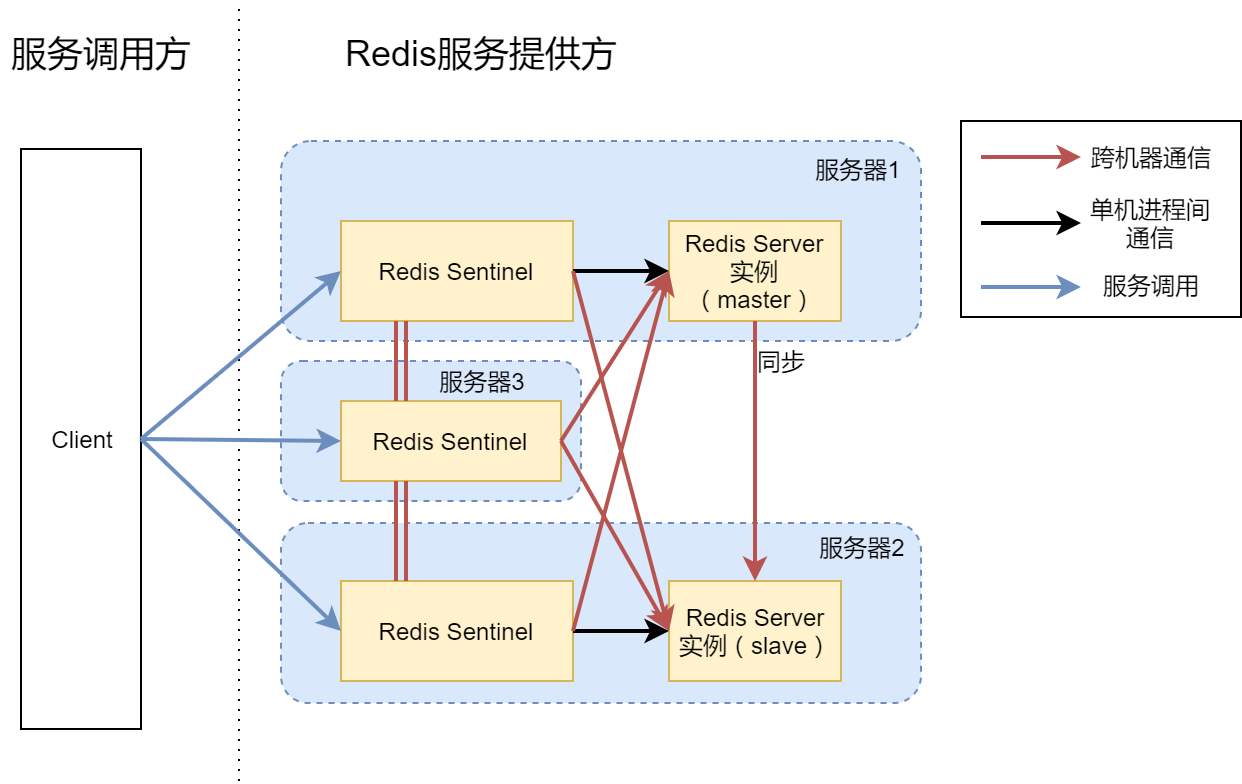
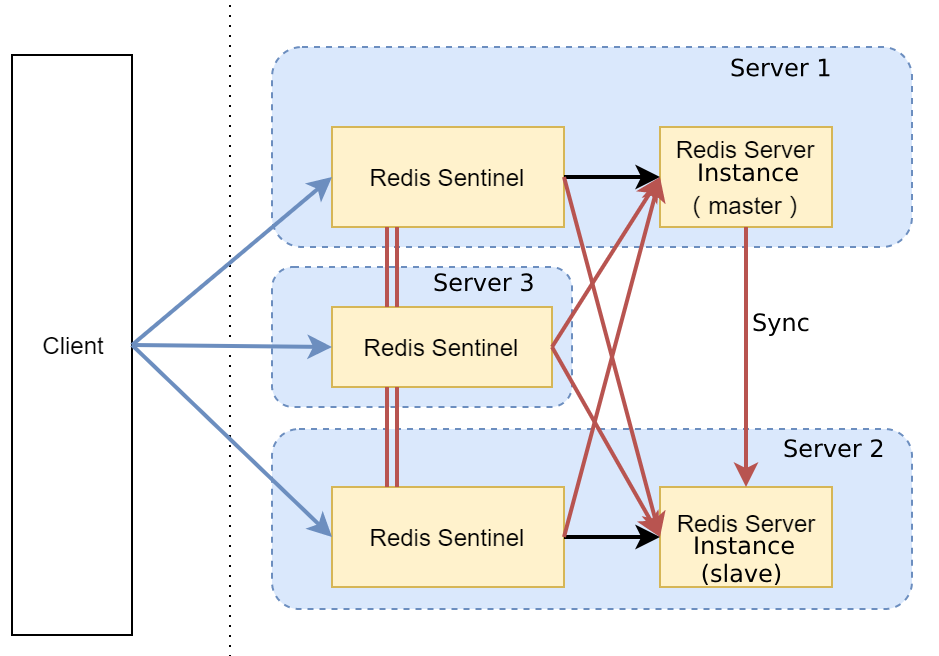
using english README

diff --git a/README.md b/README.md
@@ -1,56 +1,80 @@
----
-typora-root-url: .
-typora-copy-images-to: ./images
----
+# Problems
 
-# 问题
+Redis Sentinel is a high-availability master-slave solution given by Redis. Using it, we can deploy a fault-tolerant, highly available Redis cluster. The failover process is automated and requires no human intervention. For more information about Redis Sentinel refer to: <https:// Redis.io/topics/sentinel>.
 
-Redis哨兵是Redis官方给出的高可用主从方案，使用该方案可以部署一个容错的高可用Redis集群，故障转移过程是自动化地进行的，而不需要人为干涉。
-
-> Redis Sentinel provides high availability (HA) for Redis. In practical terms this means that using Sentinel you can create a Redis deployment that tolerates certain kinds of failures without human intervention. For more information about Redis Sentinel refer to: <https://redis.io/topics/sentinel>.
-
-典型的哨兵架构图如下所示：
+A typical sentinel architecture diagram is shown below:
 
 ![image-20190419165707181](images/image-20190419165707181.png)
 
-它由两部分组成，哨兵节点和数据节点：
+It consists of three parts, the sentinel node, the data node and the client node:
 
-- 哨兵节点：哨兵系统由一个或多个哨兵节点组成，哨兵节点是特殊的 Redis 节点，不存储数据。
-- 数据节点：主节点和从节点都是数据节点。
-- 客户端节点：Redis客户端通过sentinel协议感知到当前的主从节点信息，再连接后端的数据节点存取数据。
+- Sentinel node: The sentinel system consists of one or more sentinel nodes, which are special Redis nodes that do not store data.
+- Data node: Both the master node and the slave node are data nodes.
+- Client node: The Redis client fetchs the current master-slave node information through the sentinel protocol, and then connects the data nodes of the back-end to access the data.
 
-上面的架构我们能看到一个问题，这个方案对于客户端是不透明的，需要客户端支持sentinel协议以感知主从节点信息。这个对于有些场景来说意味着要修改客户端的Redis的驱动程序，因此整个方案在实施时有一些困难。
+In the architecture above we can see a problem, this solution is opaque to the client, the client needs to support the sentinel protocol to sense the master-slave information. 
 
-> Connecting an application to a Sentinel-managed Redis deployment is usually done with a Sentinel-aware Redis client. While most Redis clients do support Sentinel, the application needs to call a specialized connection management interface of the client to use it. When one wishes to migrate to a Sentinel-enabled Redis deployment, she/he must modify the application to use Sentinel-based connection management. Moreover, when the application uses a Redis client that does not provide support for Sentinel, the migration becomes that much more complex because it also requires replacing the entire client library.
+Connecting an application to a Sentinel-managed Redis deployment is usually done with a Sentinel-aware Redis client. While most Redis clients do support Sentinel, the application needs to call a specialized connection management interface of the client to use it. When one wishes To migrate to a Sentinel-enabled Redis deployment, she/he must modify the application to use Sentinel-based connection management. Moreover, when the application uses a Redis client that does not provide support for Sentinel, the migration becomes that much more complex It also requires replacing the entire client library.
 
-# 解决方案
+Some of the existing redis deployment solutions in the kubernetes community, such as [redis-ha] (<https://github.com/helm/charts/tree/master/stable/redis-ha>), are basically similar to the above architecture, so the same problem exists.
 
-现在社区中的一些helm chart（如[redis-ha](https://github.com/helm/charts/tree/master/stable/redis-ha)）部署的redis集群就是上面那种方案，因此存在的问题是类似的。
+# Solutions
 
-为了解决上述问题，我们这里采用Redis官方给的[sentinel_tunnel](https://github.com/RedisLabs/sentinel_tunnel)作为Redis SmartProxy，以屏蔽下层的Redis集群状态细节，让客户端以普通Redis协议直接连接过来，架构图如下：
-
-```
-+-------------------------------------------+                                                           _,-'*'-,_
-| +---------------------------------------+ |                                               _,-._      (_ o v # _)
-| |                           +--------+  | |  +----------+       +----------+          _,-'  *  `-._  (_'-,_,-'_)
-| |Application code           | Redis  |  | |  | Sentinel | +     |  Redis   | +       (_  O     #  _) (_'|,_,|'_)
-| |(uses regular connections) | client +<------>+  Tunnel  +<----->+ Sentinel +<--+---->(_`-._ ^ _,-'_)   '-,_,-'
-| |                           +--------+  | |  +----------+ | |   +----------+ | |     (_`|._`|'_,|'_)
-| +---------------------------------------+ |    +----------+ |     +----------+ |     (_`|._`|'_,|'_)
-| Application node                          |      +----------+       +----------+       `-._`|'_,-'
-+-------------------------------------------+                                               `-'
+In order to solve the above problem, we use Redis officially [sentinel_tunnel] (<https://github.com/RedisLabs/sentinel_tunnel>) as Redis's smart proxy to shield the underlying Redis cluster status details and let the client connect the data node directly using the normal Redis protocol. the architecture diagram is as follows:
 
 ```
++-------------------------------------------+ _,-'* '-,_
+| +---------------------------------------+ | _,-._ (_ Ov # _)
+| | +--------+ | | +----------+ +----------+ _,-' * `-._ (_' -,_,-'_)
+| | Application code | Redis | | | | Sentinel | + | Redis | + (_ O # _) (_'|,_,|'_)
+| |(uses regular connections) | client +<------>+ Tunnel +<----->+ Sentinel +<--+---->(_`-._ ^ _,- '_) '-,_,-'
+| | +--------+ | | +----------+ | | +----------+ | | (_`|._`| '_,|'_)
+| +---------------------------------------+ | +------ ----+ | +----------+ | (_`|._`|'_,|'_)
+| Application node | +----------+ +----------+ `-._`|'_,-'
++-------------------------------------------+ `-'
 
-我们这里做的工作：
+```
 
-1. 将[sentinel_tunnel](https://github.com/RedisLabs/sentinel_tunnel)封装为[docker镜像](https://github.com/hackerthon2019/redis-ha/tree/master/redis-ha-operator/helm-charts/redis-ha-st/docker/redis-st)，并[提供helm chart](https://github.com/hackerthon2019/redis-ha/tree/master/redis-ha-operator/helm-charts/redis-ha-st/charts/redis-st)以快速安装它。
-2. 组织[redis-ha](https://github.com/helm/charts/tree/master/stable/redis-ha)及[上述helm chart](https://github.com/hackerthon2019/redis-ha/tree/master/redis-ha-operator/helm-charts/redis-ha-st/charts/redis-st)，最终形成一个[大chart](https://github.com/hackerthon2019/redis-ha/tree/master/redis-ha-operator/helm-charts/redis-ha-st)，用以快速在kubernetes中将上述架构部署出来。
-3. 参考[operator-sdk的helm例子](https://github.com/operator-framework/operator-sdk/blob/master/doc/helm/user-guide.md)，将上述解决方案的chart封装成一个operator，用户只需要按照规范创建cr，即可在kubernetes集群中快速部署客户端透明的高可用redis集群。
-4. 我们还写一个[简单的应用](https://github.com/hackerthon2019/redis-ha/tree/master/redis-ha-demo)，用以验证本架构解决的问题。
+# Installation Notes
 
-# 安装说明
 
-1. redis-ha-operator的安装过程参考[Makefile](https://github.com/hackerthon2019/redis-ha/blob/master/redis-ha-operator/Makefile)。
-2. 应用的运行步骤参考[这里](https://github.com/hackerthon2019/redis-ha/tree/master/redis-ha-demo)。
 
+Deploy a transparent redis cluster in kubernetes becomes a simple job, just execute the `make` command:
+
+```bash
+cd redis-ha-operator
+make
+```
+
+The [Makefile] (<https://github.com/hackerthon2019/redis-ha/blob/master/redis-ha-operator/Makefile>) does the things below:
+
+1. Build [sentinel_tunnel](<https://github.com/RedisLabs/sentinel_tunnel>)'s docker image
+2. Deploy redis-ha's Custom Resource Definitions into kubernetes cluster
+3. Build redis-ha-operator's docker image, Deploy redis-ha-operator into kubernetes cluster
+4. Deploy demo redis-ha Custom Resource into kubernetes cluster
+
+We also write a demo application using the redis-ha above, run the demo application refer to [here] (<https://github.com/hackerthon2019/redis-ha/tree/master/redis-ha-demo>)
+
+# How We Implements
+
+1. Encapsulate [sentinel_tunnel](<https://github.com/RedisLabs/sentinel_tunnel>) as a [docker image] (<https://github.com/hackerthon2019/redis-ha/tree/master/redis-ha -operator/helm-charts/redis-ha-st/docker/redis-st>), and [provide helm chart] (<https://github.com/hackerthon2019/redis-ha/tree/master/redis-ha -operator/helm-charts/redis-ha-st/charts/redis-st>) to install it quickly.
+2. Organize [redis-ha] (<https://github.com/helm/charts/tree/master/stable/redis-ha>) and [above helm chart] (<https://github.com/hackerthon2019 /redis-ha/tree/master/redis-ha-operator/helm-charts/redis-ha-st/charts/redis-st>), eventually forming a [big chart] (<https://github.com/Hackerthon2019/redis-ha/tree/master/redis-ha-operator/helm-charts/redis-ha-st>) to quickly deploy the above architecture in kubernetes.
+3. Refer to [operator-sdk's helm example] (<https://github.com/operator-framework/operator-sdk/blob/master/doc/helm/user-guide.md>) to apply the above solution The chart is encapsulated into an operator, and the user only needs to create the custom resource according to the specification, so that the client transparent, high-availability redis cluster can be quickly deployed in the kubernetes cluster.
+4. We write a [simple application] (<https://github.com/hackerthon2019/redis-ha/tree/master/redis-ha-demo>) to verify the problem be solved by this architecture.
+
+# TODO
+
+1. Support [Redis Sharding Cluster](https://redis.io/topics/cluster-spec)
+
+# Refenrence
+
+1. <https://github.com/RedisLabs/sentinel_tunnel>
+2. <https://helm.sh/>
+3. <https://github.com/helm/charts/tree/master/stable/redis-ha>
+4. <https://redis.io/topics/sentinel>
+5. <https://github.com/operator-framework/operator-sdk/blob/master/doc/helm/user-guide.md>
+6. <https://github.com/gin-gonic/gin>
+7. <https://github.com/spf13/viper>
+8. <https://vuejs.org/>
+9. <https://element.eleme.io/>
+10. <https://github.com/axios/axios>

diff --git a/README_CN.md b/README_CN.md
@@ -1,0 +1,86 @@
+---
+typora-root-url: .
+typora-copy-images-to: ./images
+---
+
+# 问题
+
+Redis哨兵是Redis官方给出的高可用主从方案，使用该方案可以部署一个容错的高可用Redis集群，故障转移过程是自动化地进行的，而不需要人为干涉。
+
+> Redis Sentinel provides high availability (HA) for Redis. In practical terms this means that using Sentinel you can create a Redis deployment that tolerates certain kinds of failures without human intervention. For more information about Redis Sentinel refer to: <https://redis.io/topics/sentinel>.
+
+典型的哨兵架构图如下所示：
+
+![image-20190419165707181](images/image-20190419165707181.png)
+
+它由两部分组成，哨兵节点和数据节点：
+
+- 哨兵节点：哨兵系统由一个或多个哨兵节点组成，哨兵节点是特殊的 Redis 节点，不存储数据。
+- 数据节点：主节点和从节点都是数据节点。
+- 客户端节点：Redis客户端通过sentinel协议感知到当前的主从节点信息，再连接后端的数据节点存取数据。
+
+上面的架构我们能看到一个问题，这个方案对于客户端是不透明的，需要客户端支持sentinel协议以感知主从节点信息。这个对于有些场景来说意味着要修改客户端的Redis的驱动程序，因此整个方案在实施时有一些困难。
+
+> Connecting an application to a Sentinel-managed Redis deployment is usually done with a Sentinel-aware Redis client. While most Redis clients do support Sentinel, the application needs to call a specialized connection management interface of the client to use it. When one wishes to migrate to a Sentinel-enabled Redis deployment, she/he must modify the application to use Sentinel-based connection management. Moreover, when the application uses a Redis client that does not provide support for Sentinel, the migration becomes that much more complex because it also requires replacing the entire client library.
+
+现在社区中的一些helm chart，如[redis-ha](<https://github.com/helm/charts/tree/master/stable/redis-ha>)，部署的redis集群就是上面那种方案，因此存在的问题是类似的。
+
+# 解决方案
+
+为了解决上述问题，我们这里采用Redis官方给的[sentinel_tunnel](<https://github.com/RedisLabs/sentinel_tunnel>)作为Redis SmartProxy，以屏蔽下层的Redis集群状态细节，让客户端以普通Redis协议直接连接过来，架构图如下：
+
+```
++-------------------------------------------+                                                           _,-'*'-,_
+| +---------------------------------------+ |                                               _,-._      (_ o v # _)
+| |                           +--------+  | |  +----------+       +----------+          _,-'  *  `-._  (_'-,_,-'_)
+| |Application code           | Redis  |  | |  | Sentinel | +     |  Redis   | +       (_  O     #  _) (_'|,_,|'_)
+| |(uses regular connections) | client +<------>+  Tunnel  +<----->+ Sentinel +<--+---->(_`-._ ^ _,-'_)   '-,_,-'
+| |                           +--------+  | |  +----------+ | |   +----------+ | |     (_`|._`|'_,|'_)
+| +---------------------------------------+ |    +----------+ |     +----------+ |     (_`|._`|'_,|'_)
+| Application node                          |      +----------+       +----------+       `-._`|'_,-'
++-------------------------------------------+                                               `-'
+
+```
+
+# 安装说明
+
+在kubernetes里部署一个对客户端透明的高可用Redis集群变成了一个很简单的工作, 只需要执行`make`命令就可以了：
+
+```bash
+cd redis-ha-operator
+make
+```
+
+[Makefile] (<https://github.com/hackerthon2019/redis-ha/blob/master/redis-ha-operator/Makefile>)做以下工作:
+
+1. 编译 [sentinel_tunnel](<https://github.com/RedisLabs/sentinel_tunnel>)的docker镜像
+2. 部署redis-ha的Custom Resource Definitions进Kubernetes集群
+3. 编译redis-ha-operator的docker镜像, 部署redis-ha-operator进Kubernetes集群
+4. 部署示例的redis-ha Custom Resource进Kubernetes集群
+
+我们还写了一个示例应用，该应用使用了上面部署出的Redis高可用集群, 运行该示例应用的办法可参考[这里] (<https://github.com/hackerthon2019/redis-ha/tree/master/redis-ha-demo>)
+
+# 如何实现
+
+1. 将[sentinel_tunnel](<https://github.com/RedisLabs/sentinel_tunnel>)封装为[docker镜像](<https://github.com/hackerthon2019/redis-ha/tree/master/redis-ha-operator/helm-charts/redis-ha-st/docker/redis-st>)，并[提供helm chart](<https://github.com/hackerthon2019/redis-ha/tree/master/redis-ha-operator/helm-charts/redis-ha-st/charts/redis-st>)以快速安装它。
+2. 组织[redis-ha](<https://github.com/helm/charts/tree/master/stable/redis-ha>)及[上述helm chart](<https://github.com/hackerthon2019/redis-ha/tree/master/redis-ha-operator/helm-charts/redis-ha-st/charts/redis-st>)，最终形成一个[大chart](<https://github.com/hackerthon2019/redis-ha/tree/master/redis-ha-operator/helm-charts/redis-ha-st>)，用以快速在kubernetes中将上述架构部署出来。
+3. 参考[operator-sdk的helm例子](<https://github.com/operator-framework/operator-sdk/blob/master/doc/helm/user-guide.md>)，将上述解决方案的chart封装成一个operator，用户只需要按照规范创建cr，即可在kubernetes集群中快速部署客户端透明的高可用redis集群。
+4. 我们还写一个[简单的应用](<https://github.com/hackerthon2019/redis-ha/tree/master/redis-ha-demo>)，用以验证本架构解决的问题。
+
+# 后续计划
+
+1. 支持Redis分片集群
+
+# 参考
+
+1. <https://github.com/RedisLabs/sentinel_tunnel>
+2. <https://helm.sh/>
+3. <https://github.com/helm/charts/tree/master/stable/redis-ha>
+4. <https://redis.io/topics/sentinel>
+5. <https://github.com/operator-framework/operator-sdk/blob/master/doc/helm/user-guide.md>
+6. <https://github.com/gin-gonic/gin>
+7. <https://github.com/spf13/viper>
+8. <https://vuejs.org/>
+9. <https://element.eleme.io/>
+10. <https://github.com/axios/axios>
+
